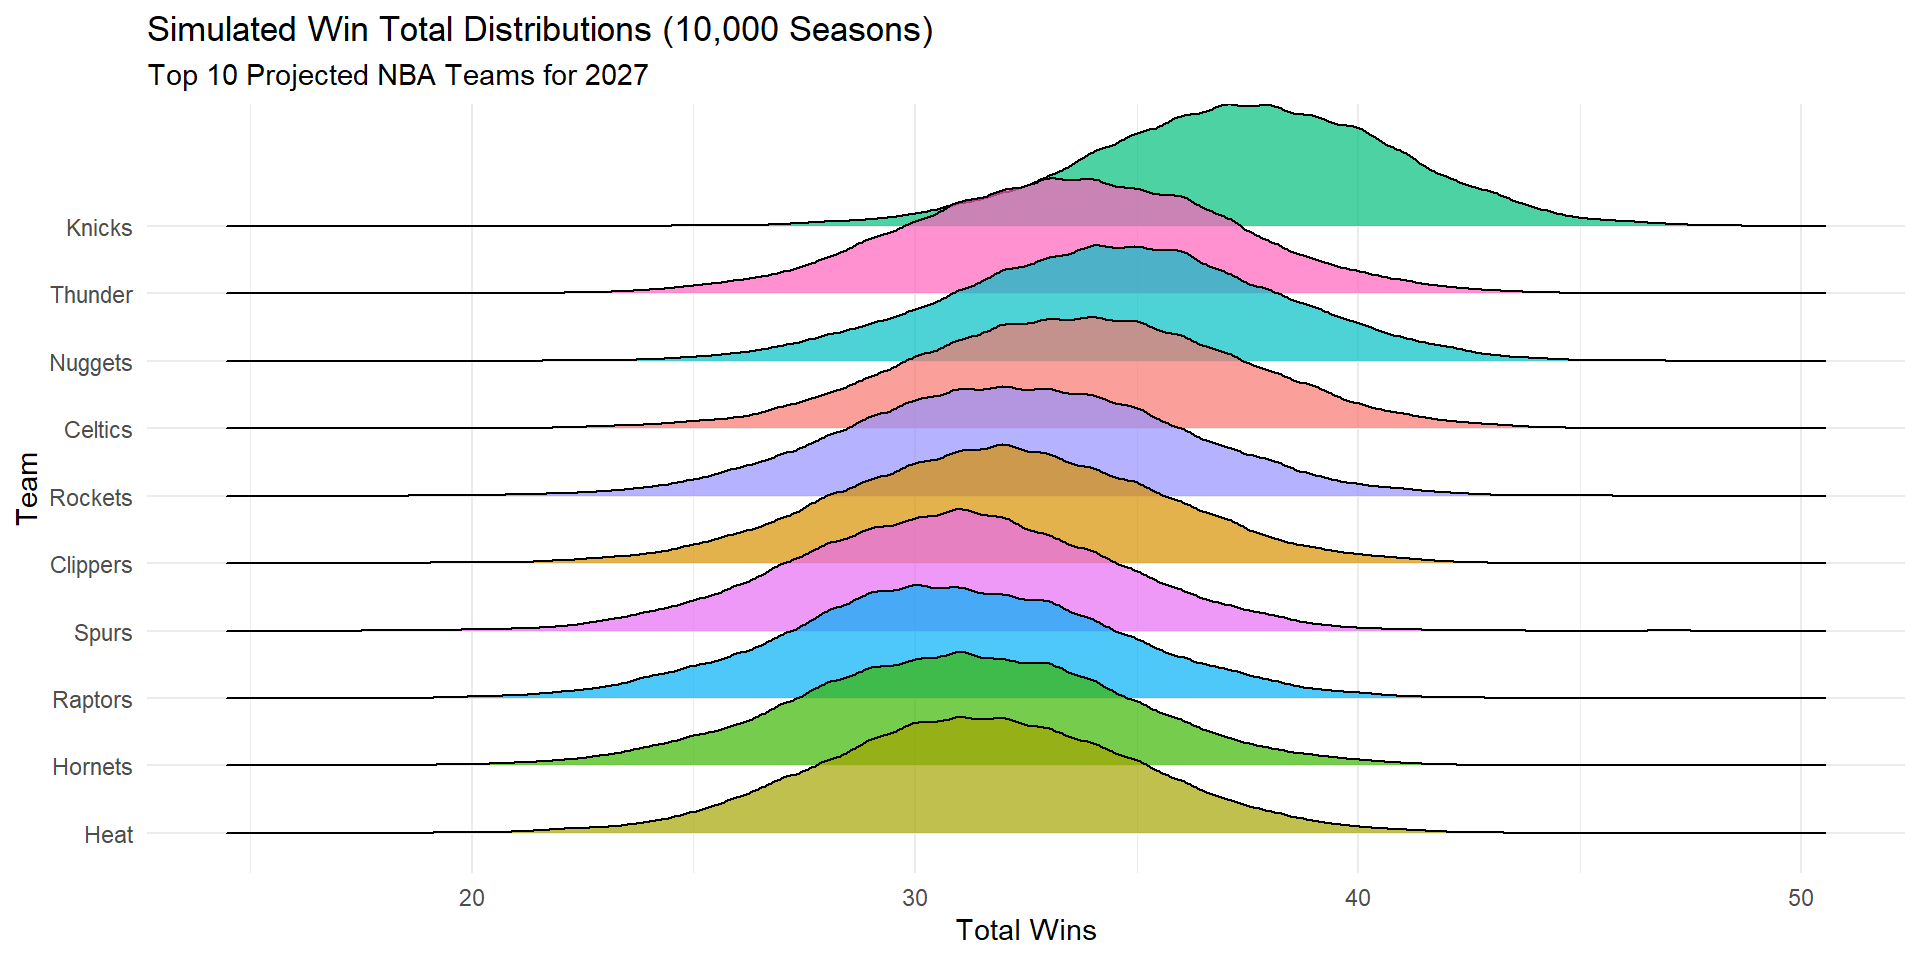
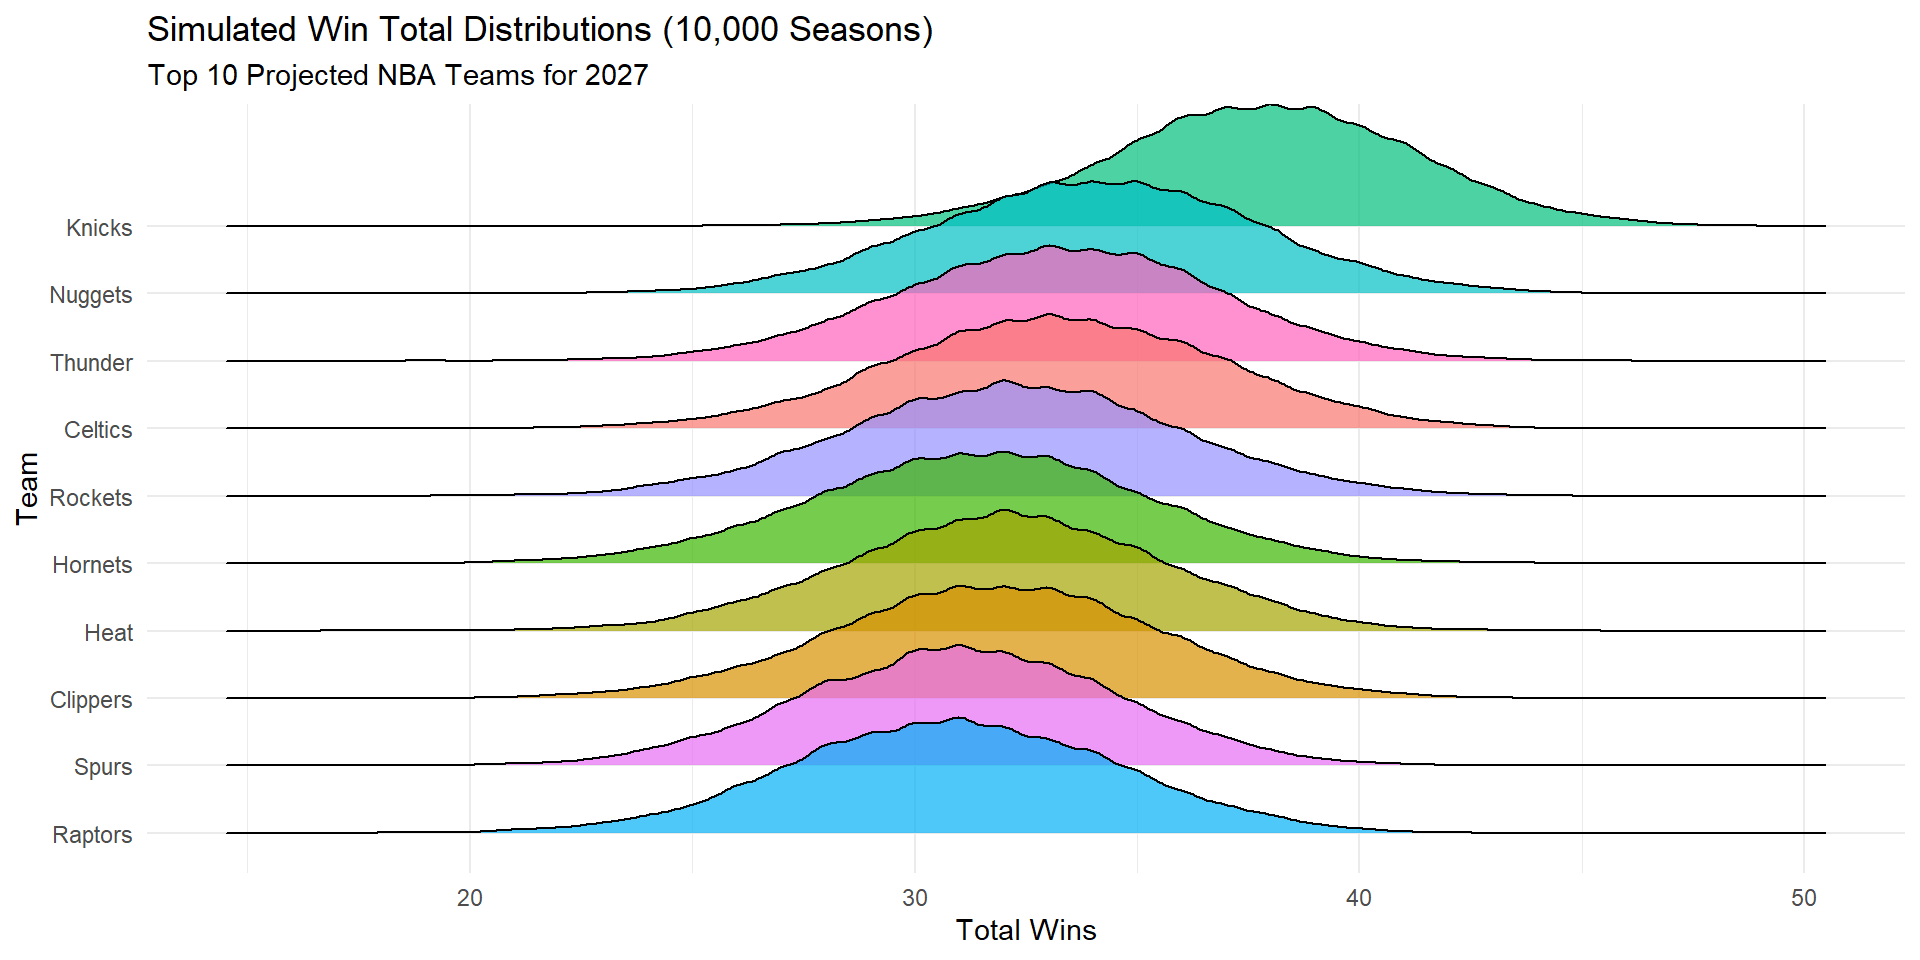
annotating code sections

diff --git a/DATA607-DS_in_Context-NBA_Analysis.html b/DATA607-DS_in_Context-NBA_Analysis.html
@@ -248,8 +248,8 @@ Kailot C. Harris
 <p><span style="font-size: 75%"><code>hoopR</code>, <code>tidyverse</code>, <code>slider</code>, and <code>tidymodels</code></span></p>
 </div>
 <aside class="notes">
-<p>I came across this medium article in which the author, in Python, used certain ML tools to predict NBA games with a reasonable degree of accuracy. I have replicated the author’s approach, however using R.</p>
-<p>The main goal is to validate model accuracy against the resolved 2026 regular NBA season and then predict season-end rankings for the 2027 season.</p>
+<p>I came across this medium article in which the author, using Python, applied certain ML tools to predict NBA games with a reasonable degree of accuracy. I have replicated the author’s approach using R.</p>
+<p>The main goal of this effort is to validate model accuracy against the resolved 2026 regular NBA season, and then predict season-end rankings for the 2027 season.</p>
 <p>The listed R packages were used for importing data, tidying data, calculating window functions, and applying models to training and testing data.</p>
 <style type="text/css">
         span.MJX_Assistive_MathML {
@@ -361,7 +361,6 @@ Kailot C. Harris
 <span id="cb4-5"><a href=""></a>nba_fit <span class="ot">&lt;-</span> <span class="fu">fit</span>(nba_workflow, <span class="at">data =</span> train_data)</span></code></pre></div><button title="Copy to Clipboard" class="code-copy-button"><i class="bi"></i></button></div>
 </div>
 <aside class="notes">
-<p>I am enthusiastic about machine learning but have limited experience beyond replicating others’ workflows. I used tidymodels documentation and code examples, as well as an LLM (Gemini 4.6 flash, medium reasoning) to guide me through the implementation of this ML pipeline.</p>
 <p>The 2019-2025 seasons were used as training data, while the 2026 season was reserved for validation testing.</p>
 <p>Tidymodels was used to implement a Random Forest classification model (ranger), and the feature importance was evaluated via Gini impurity calculations.</p>
 <p>Here we see the setup for the random forest engine, and a workflow item that combines the model and inputs to fit the weights of the feature set against the known game outcomes.</p>
@@ -437,57 +436,57 @@ Kailot C. Harris
 <tr class="odd">
 <td style="text-align: center;">1</td>
 <td style="text-align: center;">Knicks</td>
-<td style="text-align: center;">55.7</td>
-<td style="text-align: center;">47.4</td>
-<td style="text-align: center;">64.0</td>
-<td style="text-align: center;">4.22</td>
+<td style="text-align: center;">56.3</td>
+<td style="text-align: center;">48.1</td>
+<td style="text-align: center;">64.5</td>
+<td style="text-align: center;">4.20</td>
 </tr>
 <tr class="even">
 <td style="text-align: center;">2</td>
 <td style="text-align: center;">Nuggets</td>
-<td style="text-align: center;">50.5</td>
-<td style="text-align: center;">41.9</td>
-<td style="text-align: center;">59.1</td>
-<td style="text-align: center;">4.40</td>
-</tr>
-<tr class="odd">
-<td style="text-align: center;">3</td>
-<td style="text-align: center;">Thunder</td>
 <td style="text-align: center;">49.9</td>
 <td style="text-align: center;">41.2</td>
 <td style="text-align: center;">58.6</td>
 <td style="text-align: center;">4.42</td>
 </tr>
+<tr class="odd">
+<td style="text-align: center;">3</td>
+<td style="text-align: center;">Thunder</td>
+<td style="text-align: center;">49.5</td>
+<td style="text-align: center;">40.8</td>
+<td style="text-align: center;">58.2</td>
+<td style="text-align: center;">4.43</td>
+</tr>
 <tr class="even">
 <td style="text-align: center;">4</td>
 <td style="text-align: center;">Celtics</td>
-<td style="text-align: center;">49.2</td>
-<td style="text-align: center;">40.5</td>
-<td style="text-align: center;">57.9</td>
-<td style="text-align: center;">4.44</td>
+<td style="text-align: center;">48.6</td>
+<td style="text-align: center;">39.9</td>
+<td style="text-align: center;">57.3</td>
+<td style="text-align: center;">4.45</td>
 </tr>
 <tr class="odd">
 <td style="text-align: center;">5</td>
 <td style="text-align: center;">Heat</td>
-<td style="text-align: center;">47.8</td>
-<td style="text-align: center;">39.0</td>
-<td style="text-align: center;">56.6</td>
-<td style="text-align: center;">4.47</td>
+<td style="text-align: center;">48.5</td>
+<td style="text-align: center;">39.8</td>
+<td style="text-align: center;">57.2</td>
+<td style="text-align: center;">4.45</td>
 </tr>
 <tr class="even">
 <td style="text-align: center;">6</td>
 <td style="text-align: center;">Spurs</td>
-<td style="text-align: center;">47.7</td>
-<td style="text-align: center;">38.9</td>
-<td style="text-align: center;">56.5</td>
-<td style="text-align: center;">4.47</td>
+<td style="text-align: center;">48.0</td>
+<td style="text-align: center;">39.3</td>
+<td style="text-align: center;">56.7</td>
+<td style="text-align: center;">4.46</td>
 </tr>
 <tr class="odd">
 <td style="text-align: center;">7</td>
 <td style="text-align: center;">Clippers</td>
-<td style="text-align: center;">47.6</td>
-<td style="text-align: center;">38.8</td>
-<td style="text-align: center;">56.4</td>
+<td style="text-align: center;">47.5</td>
+<td style="text-align: center;">38.7</td>
+<td style="text-align: center;">56.3</td>
 <td style="text-align: center;">4.47</td>
 </tr>
 <tr class="even">
@@ -501,18 +500,18 @@ Kailot C. Harris
 <tr class="odd">
 <td style="text-align: center;">9</td>
 <td style="text-align: center;">Raptors</td>
-<td style="text-align: center;">46.0</td>
-<td style="text-align: center;">37.2</td>
-<td style="text-align: center;">54.8</td>
+<td style="text-align: center;">46.1</td>
+<td style="text-align: center;">37.3</td>
+<td style="text-align: center;">54.9</td>
 <td style="text-align: center;">4.49</td>
 </tr>
 <tr class="even">
 <td style="text-align: center;">10</td>
 <td style="text-align: center;">Hornets</td>
-<td style="text-align: center;">44.7</td>
-<td style="text-align: center;">35.9</td>
-<td style="text-align: center;">53.5</td>
-<td style="text-align: center;">4.51</td>
+<td style="text-align: center;">45.3</td>
+<td style="text-align: center;">36.5</td>
+<td style="text-align: center;">54.1</td>
+<td style="text-align: center;">4.50</td>
 </tr>
 </tbody>
 </table>
